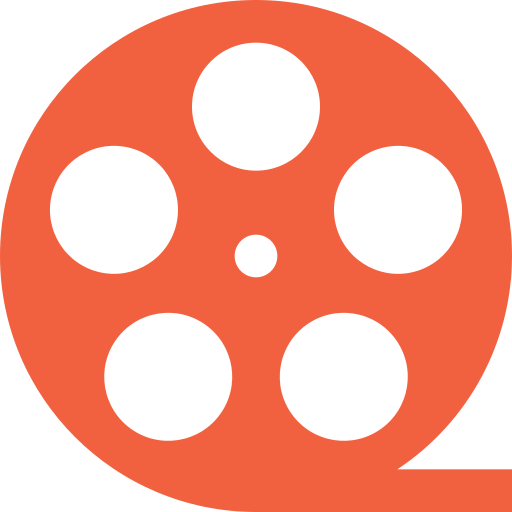
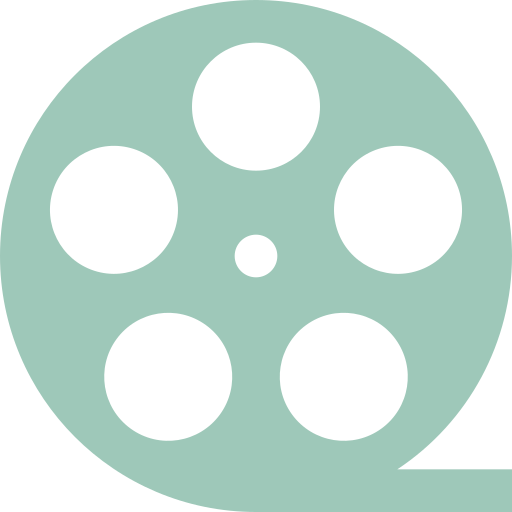
design update

diff --git a/src/components/MovieCard/MovieCard.css b/src/components/MovieCard/MovieCard.css
@@ -1,11 +1,14 @@
+@import '/src/variables.css';
+
 .card {
-    width: 200px;
+    width: 80%;
     border-radius: 8px;
     overflow: hidden;
-    background-color: #1a1a1a;
+    background-color: var(--dark-green);
     color: white;
     box-shadow: 0 4px 8px rgba(0, 0, 0, 0.2);
     transition: transform 0.2s;
+    cursor: pointer;
 }
 
 .card:hover {
@@ -14,12 +17,14 @@
 
 .card-image img {
     width: 100%;
-    height: 300px;
+    height: 80%;
     object-fit: cover;
 }
 
 .card-content {
     padding: 1rem;
+    border-radius: 20px;
+
 }
 
 .card-content h3 {
@@ -27,11 +32,11 @@
     margin: 0 0 0.5rem 0;
     white-space: nowrap;
     overflow: hidden;
-    text-overflow: ellipsis;
 }
 
 .genre {
     font-size: 0.8rem;
     color: #aaa;
     text-transform: capitalize;
+    padding-bottom: 5px;
 }

diff --git a/src/components/MoviesContainer/MoviesContainer.css b/src/components/MoviesContainer/MoviesContainer.css
@@ -1,7 +1,32 @@
 .movies-container {
     display: grid;
-    grid-template-columns: repeat(auto-fill, minmax(250px, 1fr));
+    grid-template-columns: repeat(auto-fill, minmax(220px, 1fr));
     gap: 30px;
-    padding: 10px;
-    justify-items: center;
+    width: 90%;
+    max-width: 1400px;
+    margin: 0 auto;
+    padding-bottom: 50px;
+}
+
+.search-bar-container {
+    width: 100%;
+    display: flex;
+    justify-content: center;
+    margin: 20px 0 40px 0;
+}
+
+.search-input {
+    width: 500px;
+    padding: 12px 20px;
+    border-radius: 16px;
+    border: 2px solid var(--dark-green);
+    background: var(--dark);
+    color: var(--light-green);
+    font-size: 1rem;
+    outline: none;
+    transition: border-color 0.3s;
+}
+
+.search-input:focus {
+    border-color: var(--lighter-green);
 }

diff --git a/src/components/NavBar/NavBar.css b/src/components/NavBar/NavBar.css
@@ -1,22 +1,33 @@
 .navbar{
     display: flex;
     flex-direction: row;
-    justify-content: center;
-    margin-top: 20px;
+    justify-content: space-between;
+    align-items: center;
+    width: 80%;
+    margin: 20px;
 }
 
-/* .nav-title{
-    color:yellow;
-} */
+.nav-title {
+    font-size: 1.4rem;
+    font-weight: bold;
+    color: var(--lighter-green);
+    margin: 0;
+    cursor: pointer;
+}
 
 .nav-options{
     display: flex;
-    flex-direction: row;
-    gap: 200px;
+    gap: 40px;
 }
 
-button{
+.nav-button{
     border: none;
     background-color: transparent;
     font-size: 16px;
+    color: var(--light-green);
+    cursor: pointer;
+}
+
+.nav-button:hover{
+    color: var(--lighter-green);
 }

diff --git a/src/components/NavBar/NavBar.jsx b/src/components/NavBar/NavBar.jsx
@@ -4,10 +4,10 @@ export default function NavBar() {
   return (
     <>
       <nav className="navbar">
-        {/* <p className="nav-title">Framely</p> */}
+        <p className="nav-title">Framely</p>
         <div className="nav-options">
-          <button>Home</button>
-          <button>Watchlist</button>
+          <button className='nav-button'>Home</button>
+          <button className='nav-button'>Watchlist</button>
         </div>
       </nav>
     </>

diff --git a/src/App.css b/src/App.css
@@ -1,5 +1,16 @@
 @import './variables.css';
 
 *{
-    font-family: 'Trebuchet MS', 'Lucida Sans Unicode', 'Lucida Grande', 'Lucida Sans', Arial, sans-serif;
+    font-family:'Segoe UI', Tahoma, Geneva, Verdana, sans-serif;
+    margin:0;
+}
+
+.mainContainer{
+    display: flex;
+    flex-direction: column;
+    justify-content: center;
+    align-items: center;
+    background-color: var(--dark);
+
+    gap: 20px;
 }

diff --git a/src/variables.css b/src/variables.css
@@ -1,6 +1,6 @@
 *{
-    --dark: #0C0C0C;
-    --dark-orange: #481E14;
-    --light-burnt-orange: #9B3922;
-    --light-orange: #F2613F;
+    --dark: #081217;
+    --dark-green: #203e3e;
+    --lighter-green: #9EC8B9;
+    --light-green: #5C8374;
 } 

diff --git a/src/App.jsx b/src/App.jsx
@@ -7,10 +7,10 @@ import './App.css';
 
 function App() {
   return (
-    <>
+    <div className='mainContainer'>
       <NavBar />
       <MoviesContainer />
-    </>
+    </div>
   );
 }
 
